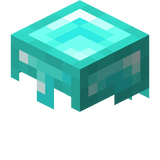
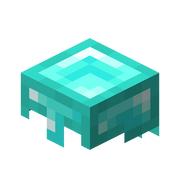
changed image resolutions and updated navbar syntax

diff --git a/hypixel-app/src/index.css b/hypixel-app/src/index.css
@@ -176,12 +176,39 @@ button:focus-visible {
   animation: rotate-gradient 4s linear infinite;
 }
 
-/* Style the input field itself */
-.searchItems input.form-control {
-  border-radius: 13px;
-  /* Slightly smaller radius to fit inside the wrapper */
-  border: none;
-  /* Remove the default input border */
+/* Styles for the vertical navbar */
+.navbar-vertical {
+  background-color: #222;
+  color: #fff;
+  padding: 20px;
+  display: flex;
+  flex-direction: column;
+  align-items: flex-start;
+  height: 100vh;
+  position: fixed;
+  top: 0;
+  left: 0;
+  width: 150px;
+}
+
+.navbar-vertical h2 {
+  margin: 0 0 20px 0;
+}
+
+.navbar-vertical ul {
+  list-style: none;
+  padding: 0;
+  margin: 0;
+  width: 100%;
+}
+
+.navbar-vertical li {
+  margin-bottom: 15px;
+}
+
+.navbar-vertical a {
+  color: #fff;
+  text-decoration: none;
 }
 
 .buttonFade {
@@ -220,6 +247,19 @@ button:focus-visible {
   :root {
     color: #213547;
     background-color: #ffffff;
+  }
+
+  body {
+    background-color: #ffffff !important;
+  }
+
+  nav {
+    background-color: #f9f9f9 !important;
+    color: #213547 !important;
+  }
+
+  nav ul {
+    color: #213547 !important;
   }
 
   a:hover {

diff --git a/hypixel-app/src/components/NavBar.jsx b/hypixel-app/src/components/NavBar.jsx
@@ -2,32 +2,14 @@ import { Link } from "react-router-dom";
 
 export default function NavBar() {
   return (
-    <nav
-      style={{
-        backgroundColor: "#222",
-        color: "#fff",
-        padding: "20px",
-        display: "flex",
-        flexDirection: "column",
-        alignItems: "flex-start",
-        height: "100vh",
-        position: "fixed",
-        top: 0,
-        left: 0,
-        width: "150px",
-      }}
-    >
-      <h2 style={{ margin: "0 0 20px 0" }}>Hypixel Tracker</h2>
-      <ul style={{ listStyle: "none", padding: 0, margin: 0, width: "100%" }}>
-        <li style={{ marginBottom: "15px" }}>
-          <Link to="/" style={{ color: "#fff", textDecoration: "none" }}>
-            Items
-          </Link>
+    <nav className="navbar-vertical">
+      <h2>Hypixel Tracker</h2>
+      <ul>
+        <li>
+          <Link to="/">Items</Link>
         </li>
-        <li style={{ marginBottom: "15px" }}>
-          <Link to="/login" style={{ color: "#fff", textDecoration: "none" }}>
-            Login
-          </Link>
+        <li>
+          <Link to="/login">Login</Link>
         </li>
       </ul>
     </nav>

diff --git a/hypixel-app/src/components/ItemList.jsx b/hypixel-app/src/components/ItemList.jsx
@@ -157,6 +157,7 @@ export default function ItemList() {
     return { backgroundColor };
   };
 
+
  // Helper function to get the correct image source for an item
 const getItemImageSrc = (item) => {
   // Check if it's a skull and has a skin property with a value
@@ -190,6 +191,7 @@ const getItemImageSrc = (item) => {
   // Default behavior for non-skull items
   return `./images/${item.material}.png`;
 };
+
 
   return (
     <div className="itemsList">
